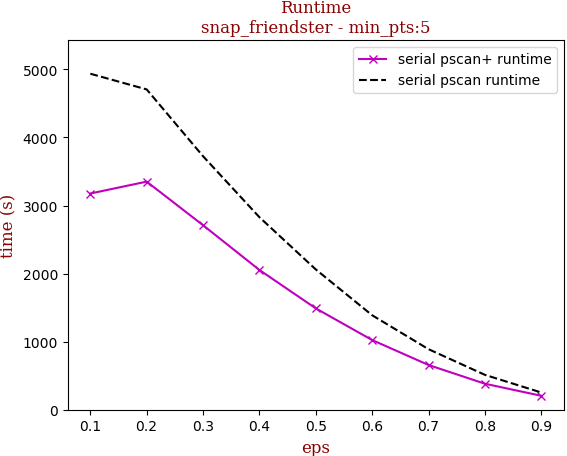
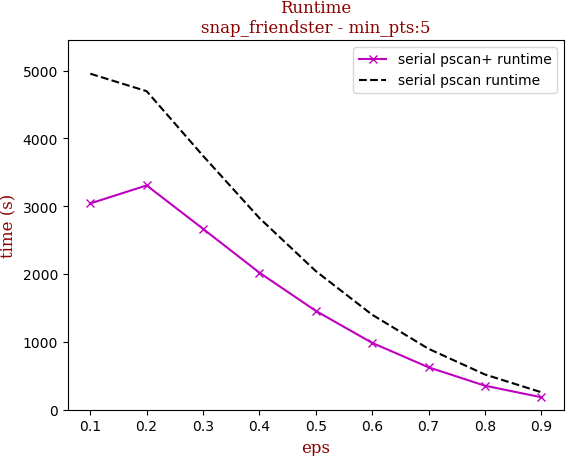
add frienster workload data

diff --git a/python_experiments/workload_figure.py b/python_experiments/workload_figure.py
@@ -226,8 +226,7 @@ if __name__ == '__main__':
     data_set_lst = ['small_snap_dblp',
                     'snap_pokec', 'snap_livejournal', 'snap_orkut',
                     'webgraph_uk', 'webgraph_webbase',
-                    'webgraph_twitter',
-                    #  'snap_friendster',
+                    'webgraph_twitter', 'snap_friendster',
                     '10million_avgdeg15_maxdeg50_Cdefault'
                     ]
 

diff --git a/python_experiments/case_studies/figures-case-study7-workload-efficient-1/ReadMe.md b/python_experiments/case_studies/figures-case-study7-workload-efficient-1/ReadMe.md
@@ -110,6 +110,22 @@ pscan+ eval number | 0.455 | 0.523 | 0.446 | 0.358 | 0.281 | 0.212 | 0.150 | 0.0
 serial pscan runtime | 2311.507 | 2973.190 | 2485.840 | 1714.214 | 1110.610 | 671.768 | 375.464 | 182.999 | 61.469
 serial pscan+ runtime | 1071.112 | 1993.220 | 1830.713 | 1299.356 | 840.775 | 504.277 | 279.642 | 138.720 | 48.351
 
+## snap_friendster
+
+workload | runtime
+--- | ---
+![snap_friendster-workload](../../figures/workload-efficient/snap_friendster-min_pts:5-workload.png) | ![snap_friendster-runtime](../../figures/workload-efficient/snap_friendster-min_pts:5-runtime.png)
+
+tag | eps-0.1 | eps-0.2 | eps-0.3 | eps-0.4 | eps-0.5 | eps-0.6 | eps-0.7 | eps-0.8 | eps-0.9
+--- | --- | --- | --- | --- | --- | --- | --- | --- | ---
+prune0 definitely not reachable | 0.007 | 0.047 | 0.121 | 0.223 | 0.346 | 0.481 | 0.619 | 0.754 | 0.882
+prune1 definitely reachable | 0.024 | 0.007 | 0.003 | 0.002 | 0.001 | 0.000 | 0.000 | 0.000 | 0.000
+max eval number | 0.969 | 0.946 | 0.876 | 0.775 | 0.653 | 0.518 | 0.381 | 0.245 | 0.118
+pscan eval number | 0.749 | 0.916 | 0.857 | 0.755 | 0.633 | 0.499 | 0.362 | 0.228 | 0.102
+pscan+ eval number | 0.612 | 0.902 | 0.855 | 0.750 | 0.628 | 0.494 | 0.357 | 0.223 | 0.099
+serial pscan runtime | 4953.774 | 4695.946 | 3743.075 | 2825.694 | 2044.155 | 1400.560 | 898.461 | 519.990 | 257.914
+serial pscan+ runtime | 3041.721 | 3306.843 | 2666.802 | 2020.762 | 1457.519 | 985.713 | 625.651 | 354.611 | 183.907
+
 ## 10million_avgdeg15_maxdeg50_Cdefault
 
 workload | runtime
